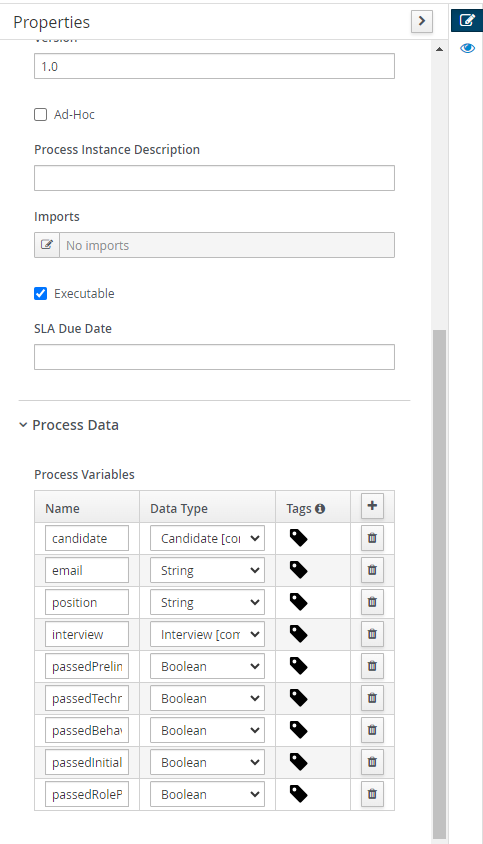
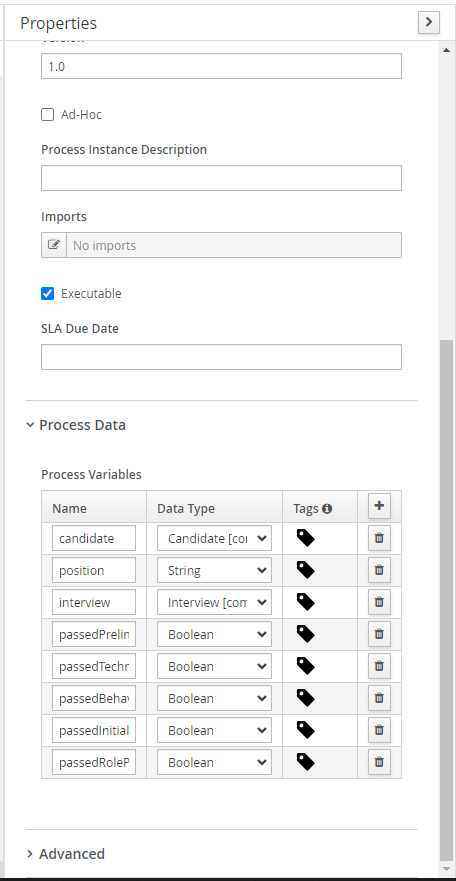
update

diff --git a/_rhpam/4.1-creating-business-process.md b/_rhpam/4.1-creating-business-process.md
@@ -25,7 +25,6 @@ permalink: rhpam/job-portal/creating-business-process
    | Name                       | Data Type |
    | -------------------------- | --------- |
    | candidate                  | Candidate |
-   | email                      | String    |
    | position                   | String    |
    | interview                  | Interview |
    | passedPreliminaryFiltering | Boolean   |
@@ -130,11 +129,17 @@ Quick guide:
 
 2. Click on the **pencil icon** under **Assignments**.
 
-3. Click on the **Source** box beside **From** and choose _Expression ..._. Then enter the email that you have set up email custom task. This is because we do not want to sent to a fixed email, but we want to let the candidate to type in their own email when they initiate the process.
+3. Click on the **Source** box beside **From** and choose _Expression ..._.
 
-4. Set the **Source** of the **To** to the process variable _email_.
+   ![email-from](../assets/images/business-central/business-process/email-from.png)
 
-5. Set the **Source** of the **Subject** and **Body** to _Expression ..._ to write your email.
+4. Then enter the email that you used for setting up the email custom task in the project. Our email will be automatically sent from this email.
+
+   ![email-from-ex](../assets/images/business-central/business-process/email-from-ex.png)
+
+5. Set the **Source** of the **To** to `#{candidate.email}`. This is because we do not want to sent to a fixed email, but we want to let the candidate to type in their own email when they initiate the process.
+
+6. Set the **Source** of the **Subject** and **Body** to _Expression ..._ to write your email.
 
    As example:
 
@@ -144,8 +149,72 @@ Quick guide:
       ```
    2. Set the **Body** to
       ```
-      Dear #{candidate.name}, </br> We greatly appreciate your interest in our internship role. Unfortunately you did not meet the minimum requirement.
+      Dear #{candidate.name}, </br></br> We greatly appreciate your interest in our internship role. Unfortunately you did not meet the minimum requirement.
       ```
 
    In BPMN, we use `#{}` to insert a variable. In this case, the `#{candidate.name}` will be substituted to the candidate's name.
-   We can also use html to format such as `</br>`
+   We can also use html to format such as `</br>`.
+
+7. It should look like this:
+
+   ![rejection-email-data-io](../assets/images/business-central/business-process/rejection-email-data-io.png)
+
+### User Task
+
+1. Click on the _Interview Arrangement_ and open its **Properties**.
+
+2. Expand the **Implementation/Execution** tab and change the **Task Name** to _InterviewArrangement_ and **Subject** to _Interview Arrangement for #{candidate.name}_.
+
+   ![task-name-and-subject](../assets/images/business-central/business-process/task-name-and-subject.png)
+
+3. Next, we need to decide who to assign the task to. In BPMN, we can choose to assign a task to specific person (Actors) or a group of people (Groups).
+
+   For this task, we will assign to the HR group. Click on the **Add** under **Groups** and select _HR_.
+
+   ![task-assign-group](../assets/images/business-central/business-process/task-assign-group.png)
+
+   Note that the HR group is premade in the jBPM. We will look into how we can create our own group and user later.
+
+4. Click on the **Pencil icon** under Assignments and key in the following informations.
+
+   Data Inputs and Assignments:
+
+   | Name      | Data Type | Source    |
+   | --------- | --------- | --------- |
+   | candidate | Candidate | candidate |
+
+   Data Outpus and Assignments:
+
+   | Name      | Data Type | Source    |
+   | --------- | --------- | --------- |
+   | interview | Interview | interview |
+
+   ![interview-arrangement-data-io](../assets/images/business-central/business-process/interview-arrangement-data-io.png)
+
+### Swimlane
+
+Swimlane will not affect how the process is run. However, it is useful to illustrate the participants of a group of tasks.
+
+1. Drag a swimlane and orientate it as below. (Tips: Drag the task to be on top of the swimlane.)
+
+   ![swimlane-create](../assets/images/business-central/business-process/swimlane-create.png)
+
+2. Name the swimlane to _HR_ as the participant for the interview arrangement is the HR.
+
+   ![swimlane-name](../assets/images/business-central/business-process/swimlane-name.png)
+
+### End Node
+
+If the process reaches an end event, it will be considered complete.
+
+1. Drag 2 end nodes and connect the _Rejection Email_ and _Interview Arrangement_ to each of them respectively.
+
+   ![end-node-create](../assets/images/business-central/business-process/end-node-create.png)
+
+2. Name the end node to _Candidate Rejected_ and _Interview Arranged_ respectively.
+
+   ![end-node-name](../assets/images/business-central/business-process/end-node-name.png)
+
+3. Press **Save** to save the changes.
+
+Let's test if everything is working before continuing.

diff --git a/_rhpam/4.2-deploy-and-creating-process.md b/_rhpam/4.2-deploy-and-creating-process.md
@@ -1,0 +1,71 @@
+---
+layout: article
+title: "Deploy and Creating Process"
+permalink: rhpam/job-portal/deploy-and-creating-process
+---
+
+### Deploy Project
+
+1. Navigate back to the _Job-Portal_ page.
+
+   ![job-portal-main](../assets/images/business-central/job-portal-main.png)
+
+2. Click on the **Deploy** on the top right corner.
+
+   ![deploy](../assets/images/business-central/deploy.png)
+
+### Process Definitions
+
+1. Press the **Menu** on top and click on the **Process Definitions**.
+
+   ![process-definitions](../assets/images/business-central/process-definitions.png)
+
+2. In the Process Definitions page, we can see 1 process definition named hiring. Click on the vertical ellipsis and press **Start**.
+
+   ![manage-process-definitions](../assets/images/business-central/manage-process-definitions.png)
+
+3. You will now see an auto generated form which contains all the process variables. We will look at how to create our own form later.
+
+### Starting process
+
+#### Rejection Case
+
+First we will test out if we can receive rejection email.
+
+1. Key in the information of candidate such that the age of candidate is not greater than 21. Remember to key in your email as you will want to check if it is sent successfully.
+
+   ![reject-case](../assets/images/business-central/reject-case.png)
+
+2. You can leave the other fields empty and press **Submit**. You will be directed to the process-instance page.
+
+   ![process-instance](../assets/images/business-central/process-instance.png)
+
+3. Click on **Process Variables** to see the value of the process variables.
+
+   ![process-instance-process-variables](../assets/images/business-central/process-instance-process-variables.png)
+
+4. Clock on the **Diagram** to see an illustration of the workflow.
+
+   ![process-instance-diagram](../assets/images/business-central/process-instance-diagram.png)
+
+#### Passed case
+
+Next, we will explore the passed case.
+
+1. Go to **Process Definitions** and **Start** a new process.
+
+2. Key in the information such that the candidate pass all the requirements (example: Gpa > 3.8 and Age > 21).
+
+   ![accept-case](../assets/images/business-central/accept-case.png)
+
+3. On the **Diagram** tab. We can see that the _Interview Arrangement_ is bordered in red. This means that the process is currently at the _Interview Arrangement_ event.
+
+   ![accept-case-diagram](../assets/images/business-central/accept-case-diagram.png)
+
+### Task Inbox
+
+1. Press the **Menu** on top and click on the **task Inbox** under **Track**.
+
+   ![process-definitions](../assets/images/business-central/process-definitions.png)
+
+2.
